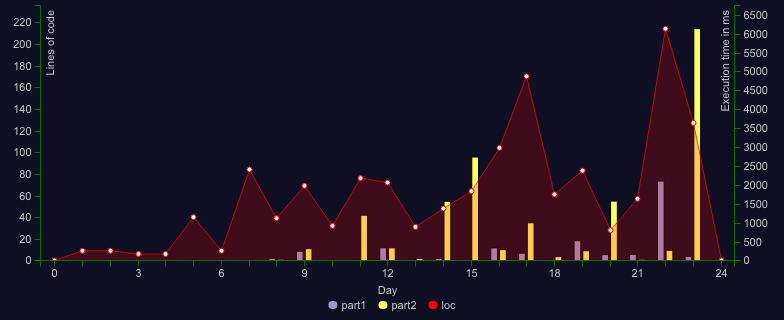
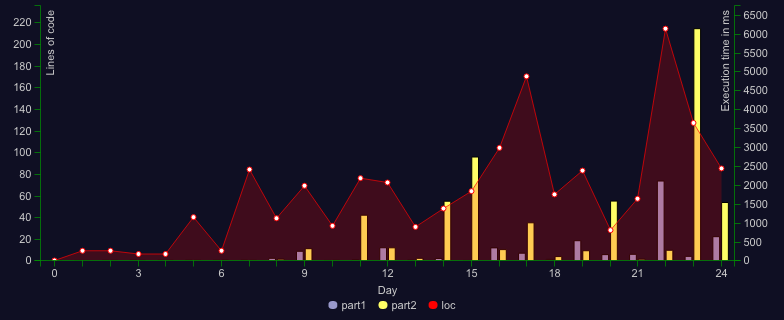
day 24: done

Changed region(s): [[0.8878, 0.4062, 0.949, 0.8125]]

diff --git a/src/day24/index.ts b/src/day24/index.ts
@@ -1,0 +1,132 @@
+import run from "aocrunner"
+import { fromPairs } from "lodash-es"
+import { partition, pipe, range, length, prop, add } from "ramda"
+import { log, splitLines, todo } from "../utils/index.js"
+
+const BLIZZARDS = [0, 1, 2, 3].map((i) => 2 << i)
+const [N, E, S, W] = BLIZZARDS
+const dir = (c: string) => 2 << ["^", ">", "v", "<"].indexOf(c)
+
+const hasDir = (v: number, d: number) => (v & d) === d
+
+const parseLines = (lines: string[]) => ({
+  start: { x: 1, y: 0 },
+  finish: { x: [lines[0].length, lines.length][0] - 2, y: [lines[0].length, lines.length][1] - 1 },
+  grid: lines.map((row) => row.split("").map((c) => (c === "#" ? -1 : dir(c)))),
+})
+type Input = ReturnType<typeof parseLines>
+
+const wrapY = (grid: number[][], x: number, y: number) =>
+  grid[y][x] === -1 ? (y === 0 ? grid.length - 2 : 1) : y
+const wrapX = (grid: number[][], x: number, y: number) =>
+  grid[y][x] === -1 ? (x === 0 ? grid[y].length - 2 : 1) : x
+const moveBlizzard = (grid: number[][], x: number, y: number, blizzard: number) => {
+  switch (blizzard) {
+    case N:
+      return [x, wrapY(grid, x, y - 1)] as const
+    case E:
+      return [wrapX(grid, x + 1, y), y] as const
+    case S:
+      return [x, wrapY(grid, x, y + 1)] as const
+    case W:
+      return [wrapX(grid, x - 1, y), y] as const
+  }
+  return [x, y] as const
+}
+
+const step = (grid: Input["grid"]) => {
+  const blizzards = grid
+    .flatMap((row, y) => row.map((v, x) => (v > 0 ? [x, y, v] : null)))
+    .filter((r: number[] | null): r is [number, number, number] => r?.length === 3)
+  return blizzards.reduce(
+    (grid, [x, y, v]) => {
+      BLIZZARDS.forEach((dir) => {
+        if (hasDir(v, dir)) {
+          const [nx, ny] = moveBlizzard(grid, x, y, dir)
+          grid[ny][nx] |= dir
+        }
+      })
+      return grid
+    },
+    grid.map((row, y) => row.map((v, x) => (v === -1 ? -1 : 0))),
+  )
+}
+
+const validMoves = (x: number, y: number, grid: Input["grid"]) =>
+  (
+    [
+      [x, y - 1, "u"],
+      [x + 1, y, "r"],
+      [x, y + 1, "d"],
+      [x - 1, y, "l"],
+      [x, y, "w"],
+    ] as const
+  ).filter(([nx, ny]) => grid[ny]?.[nx] === 0)
+
+type Node = { x: number; y: number; grid: Input["grid"]; path: string[] }
+const keyFn = ({ x, y, path }: Node) => `${x},${y}@${path.length}`
+const findPath = ({ start, finish, grid }: Input) => {
+  const initial: Node = { x: start.x, y: start.y, grid, path: [] }
+  const backlog = [initial]
+  const visited = new Set<string>([keyFn(initial)])
+  const grids = [initial.grid]
+  while (backlog.length) {
+    const { x, y, grid, path } = backlog.shift()!
+
+    const next = (grids[path.length + 1] ??= step(grid))
+    for (const [mx, my, move] of validMoves(x, y, next)) {
+      const nextPath = [...path, move]
+      if (mx === finish.x && my === finish.y) return { path: nextPath, grid: next }
+
+      const nextNode = { x: mx, y: my, grid: next, path: nextPath }
+      const key = keyFn(nextNode)
+      if (!visited.has(key)) {
+        visited.add(key)
+        backlog.push(nextNode)
+      }
+    }
+  }
+
+  return { path: [], grid }
+}
+
+const parseInput = pipe(splitLines, parseLines)
+
+const part1 = pipe(parseInput, findPath, prop("path"), length)
+
+const part2 = pipe(parseInput, ({ start, finish, grid }) => {
+  const r1 = findPath({ start, finish, grid })
+  const r2 = findPath({ start: finish, finish: start, grid: r1.grid })
+  const r3 = findPath({ start, finish, grid: r2.grid })
+  return [r1, r2, r3].map(({ path }) => path.length).reduce(add)
+})
+
+run({
+  part1: {
+    tests: [
+      {
+        input: `
+          #.######
+          #>>.<^<#
+          #.<..<<#
+          #>v.><>#
+          #<^v^^>#
+          ######.#
+        `,
+        expected: "",
+      },
+    ],
+    solution: part1,
+  },
+  part2: {
+    tests: [
+      // {
+      //   input: ``,
+      //   expected: "",
+      // },
+    ],
+    solution: part2,
+  },
+  trimTestInputs: true,
+  onlyTests: false,
+})

diff --git a/README.md b/README.md
@@ -39,7 +39,7 @@
 [![Day](https://badgen.net/badge/21/%E2%98%85%E2%98%85/green)](src/day21)
 [![Day](https://badgen.net/badge/22/%E2%98%85%E2%98%85/green)](src/day22)
 [![Day](https://badgen.net/badge/23/%E2%98%85%E2%98%85/green)](src/day23)
-![Day](https://badgen.net/badge/24/%E2%98%86%E2%98%86/gray)
+[![Day](https://badgen.net/badge/24/%E2%98%85%E2%98%85/green)](src/day24)
 ![Day](https://badgen.net/badge/25/%E2%98%86%E2%98%86/gray)
 
 <!--/SOLUTIONS-->
@@ -228,16 +228,16 @@ Both parts: 2372.064ms
 
 ```
 Day 23
-Time part 1: 121.579ms
-Time part 2: 5449.158ms
-Both parts: 5570.737ms
+Time part 1: 109.301ms
+Time part 2: 6130.059ms
+Both parts: 6239.36ms
 ```
 
 ```
 Day 24
-Time part 1: -
-Time part 2: -
-Both parts: -
+Time part 1: 190.088ms
+Time part 2: 190.42ms
+Both parts: 380.508ms
 ```
 
 ```
@@ -248,8 +248,8 @@ Both parts: -
 ```
 
 ```
-Total stars: 44/50
-Total time: 18617.077ms
+Total stars: 46/50
+Total time: 19666.209ms
 ```
 
 <!--/RESULTS-->

diff --git a/src/day24/README.md b/src/day24/README.md
@@ -1,0 +1,9 @@
+# 🎄 Advent of Code 2022 - day 24 🎄
+
+## Info
+
+Task description: [link](https://adventofcode.com/2022/day/24)
+
+## Notes
+
+...
